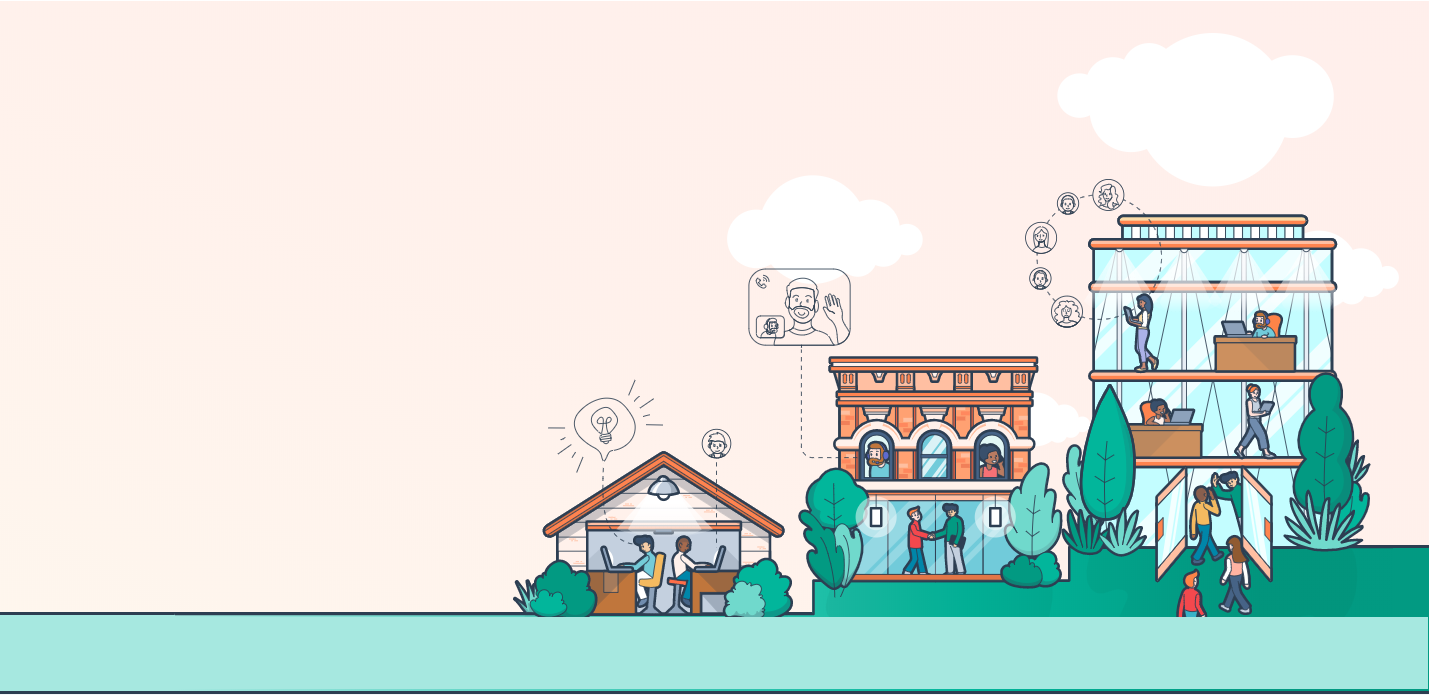
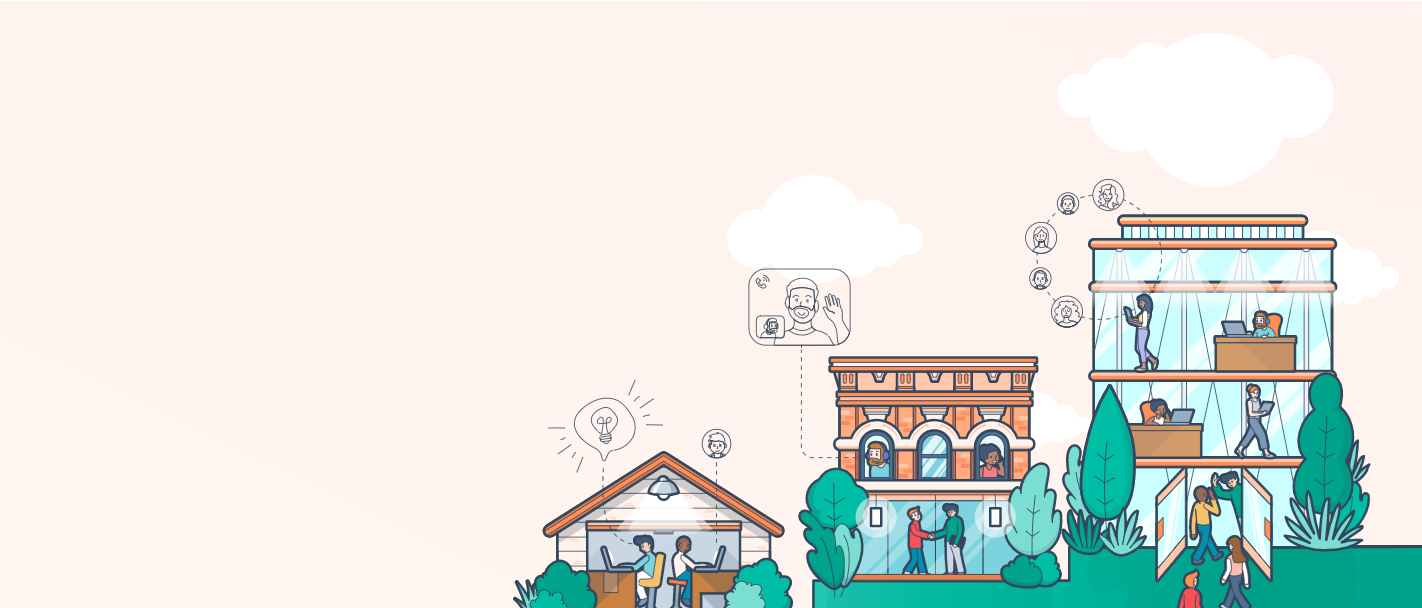
stupid jumbotron doesn't fit

diff --git a/css/style.css b/css/style.css
@@ -135,6 +135,21 @@ margin-top: 20px;
 }
 
 .jumbotron{
-  background-image: url(../img/jumbotron.png);
-  height: 610px;
+  background-image: url(../img/jumbotron1.png);
+  height: 600px;
+  background-repeat: no-repeat;
+  background-size: auto 100%;
+}
+
+.we-are-the-best{
+
+}
+
+.green-separator{
+  background: #afebe4;
+  height: 70px;
+  border-top: 3px solid black;
+  border-bottom: 3px solid black;
+  z-index: 100
+}
 }

diff --git a/index.html b/index.html
@@ -61,7 +61,9 @@
         </div>
 
       </section>
+      <div class="green-separator">
 
+      </div>
     </header>
 
     <section>
